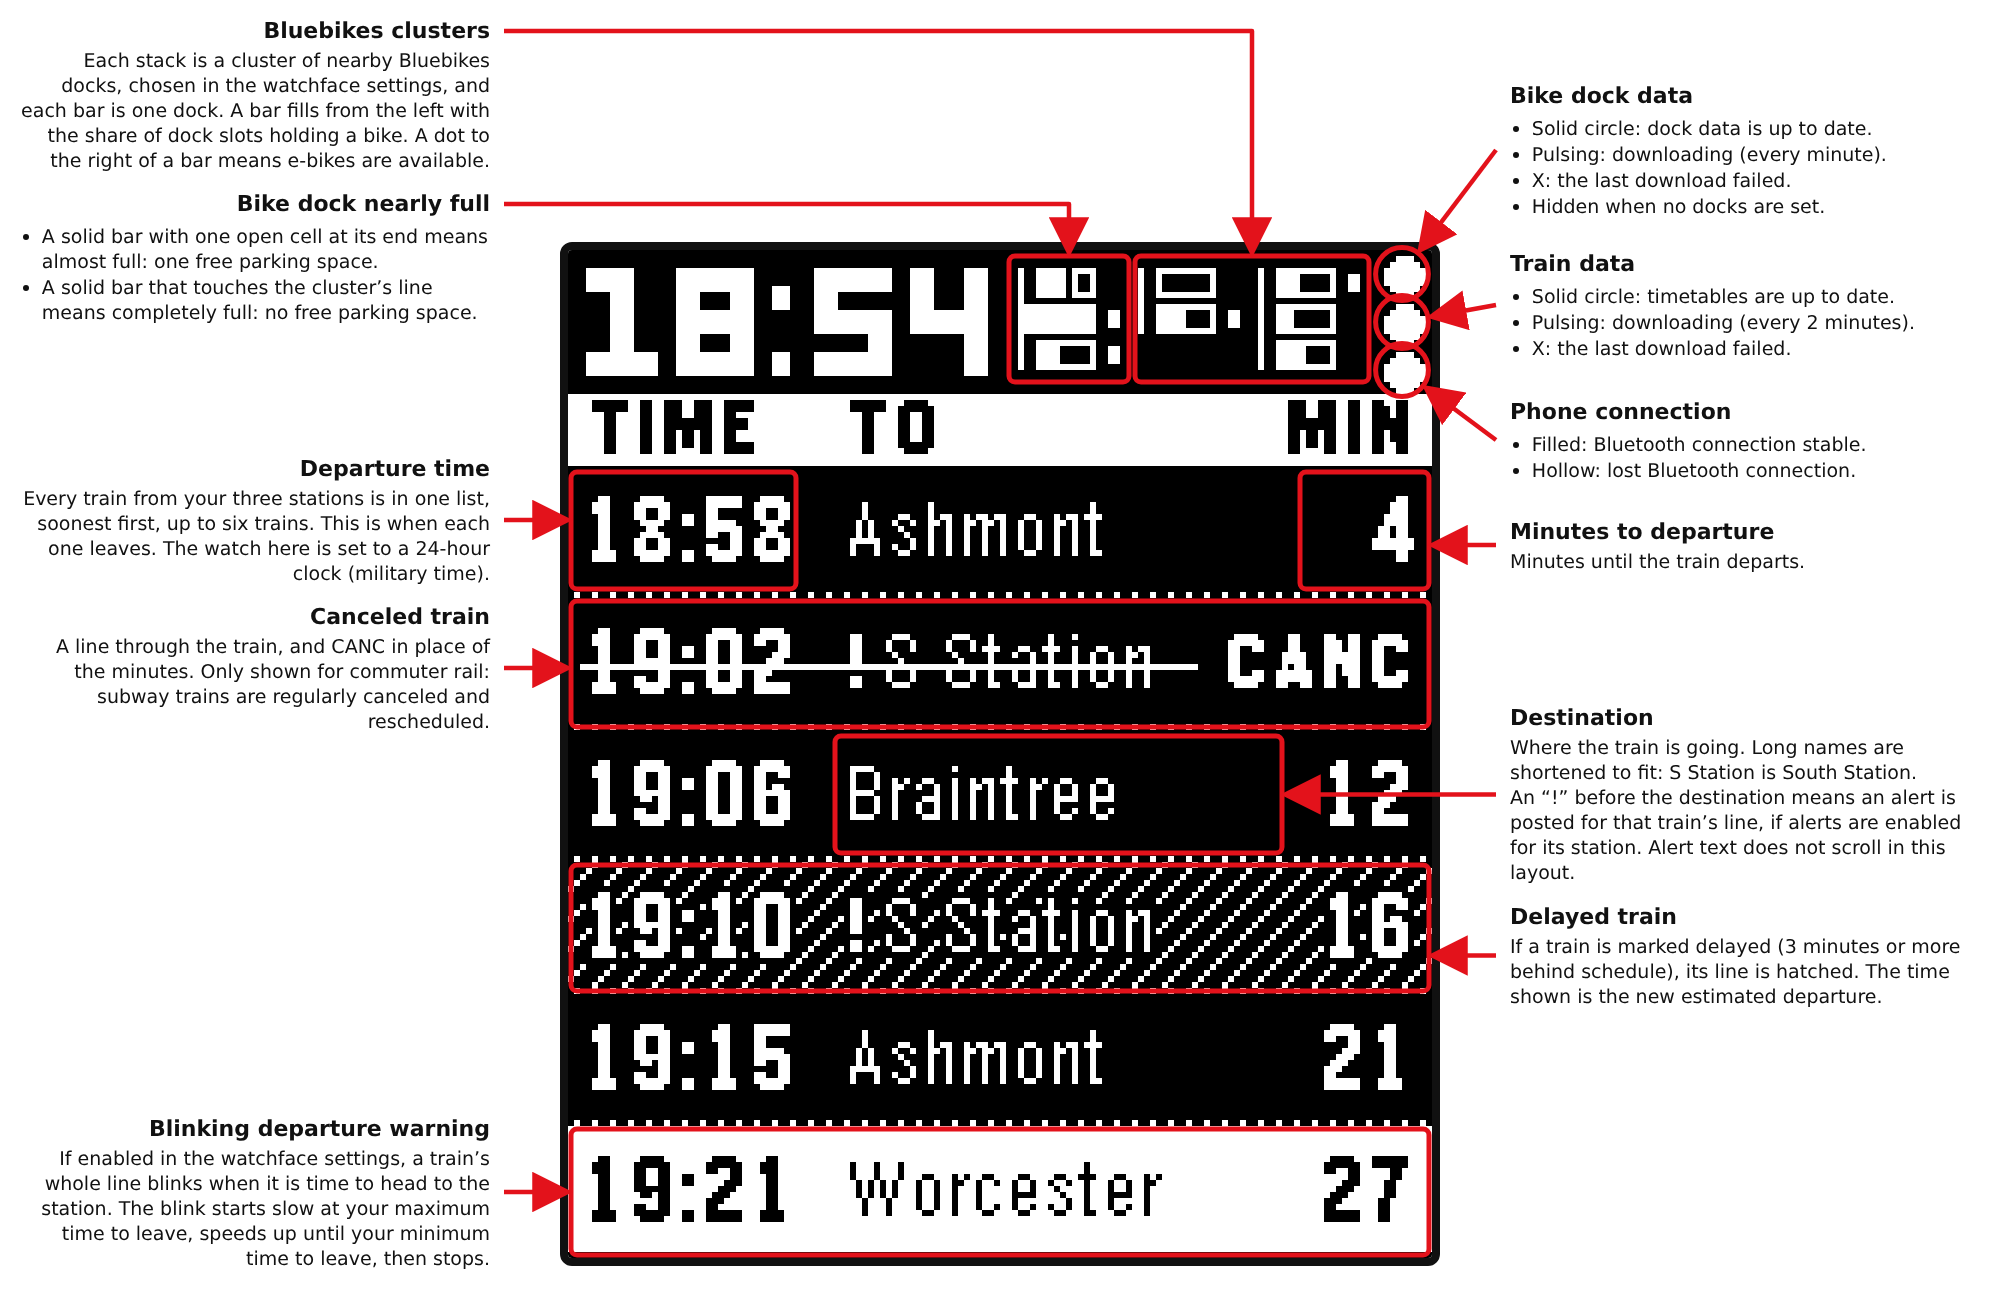
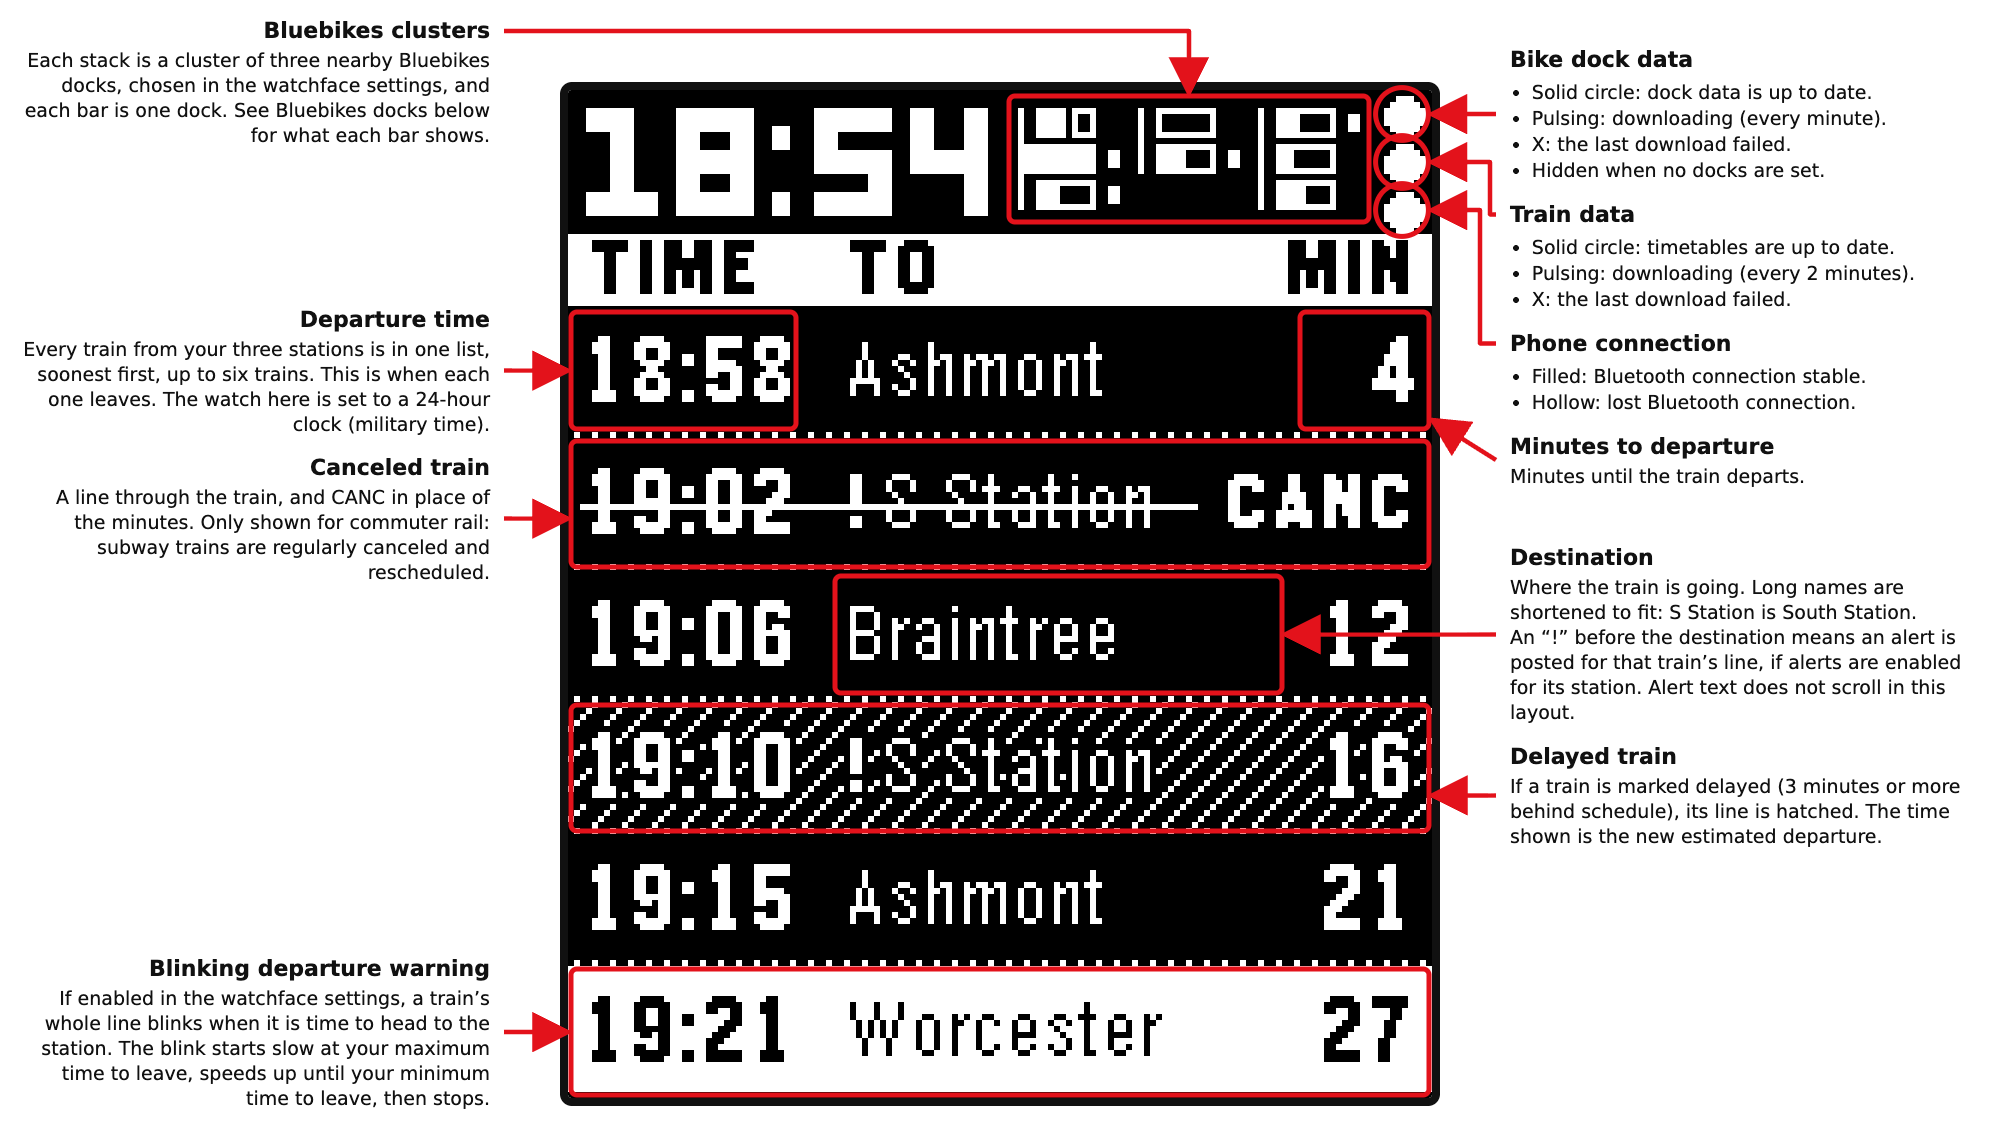
image guide layout

Changed region(s): [[0.0, 0.0, 0.992, 0.9842]]

diff --git a/docs/watch-guide.html b/docs/watch-guide.html
@@ -1,4 +1,4 @@
-<!doctype html><meta charset="utf-8">
+<!doctype html><html lang="en"><meta charset="utf-8">
 <meta name="viewport" content="width=device-width,initial-scale=1">
 <title>MBTA Pebble watch guides</title>
 <!-- Source for the annotated guides. The hash picks the guide: #line (the
@@ -22,6 +22,9 @@ svg{position:absolute;left:0;top:0}
 .t ul{display:inline-block;margin:2px 0 0;padding-left:1.15em;text-align:left}
 .t li{margin:1px 0}
 .l{text-align:right}
+/* Body text is justified, its last line kept against the watch side. */
+.t .p{display:block;text-align:justify;hyphens:auto;-webkit-hyphens:auto;text-wrap:pretty}
+.l .p{text-align-last:right}
 /* The narrow page fills the screen width up to 800px and scrolls. */
 .m{width:auto!important;max-width:800px;margin:0 auto;font-size:clamp(15px,3.1vw,25px);line-height:1.34}
 .m svg{position:static;display:block;width:100%;height:auto}
@@ -46,6 +49,8 @@ function px(x){return X0+x*K} function py(y){return Y0+y*K}
 // Targets are in watch pixels: box [x1,y1,x2,y2] or circ [cx,cy,r].
 // top: the arrow runs across the top margin and drops onto the target.
 // at: [x,y] watch pixel the arrow should end at instead of the nearest edge.
+// elbow: x of a vertical run; the arrow leaves the text level with the target if
+// it can, otherwise from the title line, and turns at right angles.
 // The Bluebikes indicators, for the narrow page. Each item is a crop of a
 // 144x168 capture, [capture, x, y, width, height], with a name and what it means.
 function pie(img,slot){return [img,6+13*slot-7,0,14,13]}
@@ -119,18 +124,17 @@ mobile:[
  {title:'{1} Bike dock data, {2} train data',body:'- Solid circle: up to date.<br>- Pulsing: downloading.<br>- X: the last download failed.',marks:[{circ:[115.5,6,5],badge:[110,15.5]},{circ:[126.5,6,5],badge:[124,15.5]}]},
  {title:'Phone connection',body:'- Filled: Bluetooth connected.<br>- Hollow: connection lost.',marks:[{circ:[137.5,6,5],badge:[139,15.5]}]}
 ]},
-board:{name:'Departure board',img:'screen-guide-board.png',y0:250,items:[
- {side:'l',top:1,title:'Bluebikes clusters',body:'Each stack is a cluster of nearby Bluebikes docks, chosen in the watchface settings, and each bar is one dock. A bar fills from the left with the share of dock slots holding a bike. A dot to the right of a bar means e-bikes are available.',box:[94.5,1,133.5,22]},
- {side:'l',top:2,title:'Bike dock nearly full',body:'- A solid bar with one open cell at its end means almost full: one free parking space.<br>- A solid bar that touches the cluster’s line means completely full: no free parking space.',box:[73.5,1,93.5,22]},
- {side:'l',title:'Departure time',body:'Every train from your three stations is in one list, soonest first, up to six trains. This is when each one leaves. The watch here is set to a 24-hour clock (military time).',box:[0.5,37,38,56.5],ty:520},
+board:{name:'Departure board',img:'screen-guide-board.png',y0:90,items:[
+ {side:'l',top:1,title:'Bluebikes clusters',body:'Each stack is a cluster of three nearby Bluebikes docks, chosen in the watchface settings, and each bar is one dock. See Bluebikes docks below for what each bar shows.',box:[73.5,1,133.5,22]},
+ {side:'l',title:'Departure time',body:'Every train from your three stations is in one list, soonest first, up to six trains. This is when each one leaves. The watch here is set to a 24-hour clock (military time).',box:[0.5,37,38,56.5]},
  {side:'l',title:'Canceled train',body:'A line through the train, and CANC in place of the minutes. Only shown for commuter rail: subway trains are regularly canceled and rescheduled.',box:[0.5,58.5,143.5,79.5]},
  {side:'l',title:'Blinking departure warning',body:'If enabled in the watchface settings, a train’s whole line blinks when it is time to head to the station. The blink starts slow at your maximum time to leave, speeds up until your minimum time to leave, then stops.',box:[0.5,146.5,143.5,167.5]},
- {side:'r',title:'Bike dock data',body:BIKE_DATA,circ:[139,4,4.4],ty:150},
- {side:'r',title:'Train data',body:TRAIN_DATA,circ:[139,12,4.4],ty:305},
- {side:'r',title:'Phone connection',body:PHONE,circ:[139,20,4.4],ty:440},
- {side:'r',title:'Minutes to departure',body:'Minutes until the train departs.',box:[122,37,143.5,56.5],ty:545},
+ {side:'r',title:'Bike dock data',body:BIKE_DATA,circ:[139,4,4.4],elbow:1490},
+ {side:'r',title:'Train data',body:TRAIN_DATA,circ:[139,12,4.4],elbow:1490},
+ {side:'r',title:'Phone connection',body:PHONE,circ:[139,20,4.4],elbow:1480},
+ {side:'r',title:'Minutes to departure',body:'Minutes until the train departs.',box:[122,37,143.5,56.5]},
  {side:'r',title:'Destination',body:'Where the train is going. Long names are shortened to fit: S Station is South Station.<br>An “!” before the destination means an alert is posted for that train’s line, if alerts are enabled for its station. Alert text does not scroll in this layout.',box:[44.5,81,119,100.5]},
- {side:'r',title:'Delayed train',body:'If a train is marked delayed (3 minutes or more behind schedule), its line is hatched. The time shown is the new estimated departure.',box:[0.5,102.5,143.5,123.5],ty:940}
+ {side:'r',title:'Delayed train',body:'If a train is marked delayed (3 minutes or more behind schedule), its line is hatched. The time shown is the new estimated departure.',box:[0.5,102.5,143.5,123.5]}
 ],
 mobile:[
  {title:'Departure time',body:'When each train leaves. Every train from your stations is in one list, soonest first.',marks:[{box:[0.5,37,38,56.5]}]},
@@ -209,7 +213,7 @@ function wide(){
 items.forEach(function(it){
   it.el=document.createElement('div');it.el.className='t '+it.side;
   it.el.style.width=TW+'px';it.el.style.left=(it.side==='l'?TL:TR)+'px';
-  it.el.innerHTML='<b>'+it.title+'</b>'+bodyHtml(it.body);c.appendChild(it.el);
+  it.el.innerHTML='<b>'+it.title+'</b>'+bodyHtml(it.body).replace(/^([^<]+(?:<br>[^<]+)*)/,'<span class="p">$1</span>');c.appendChild(it.el);
   it.h=it.el.offsetHeight;
 });
 items.forEach(function(it){
@@ -240,6 +244,10 @@ items.forEach(function(it){
   var ay=it.y-it.h/2+15; // top arrows leave from the title line
   if(it.top) d='M'+sx+','+ay+' L'+cx+','+ay+' L'+cx+','+(b.y1-5);
   else if(it.at) d='M'+sx+','+it.y+' L'+px(it.at[0])+','+py(it.at[1]);
+  else if(it.elbow){
+    var tx=left?b.x1-5:b.x2+5,top=it.y-it.h/2,ly=Math.max(top+15,Math.min(it.y+it.h/2-10,cy));
+    d=ly===cy?'M'+sx+','+cy+' L'+tx+','+cy:'M'+sx+','+ly+' L'+it.elbow+','+ly+' L'+it.elbow+','+cy+' L'+tx+','+cy;
+  }
   else{
     var ex=left?b.x1-5:b.x2+5,ey=Math.max(b.y1+8,Math.min(b.y2-8,it.y));
     if(b.c){var dx=sx-cx,dy=it.y-cy,n=Math.sqrt(dx*dx+dy*dy),rr=(b.x2-b.x1)/2+5;ex=cx+dx/n*rr;ey=cy+dy/n*rr;}
